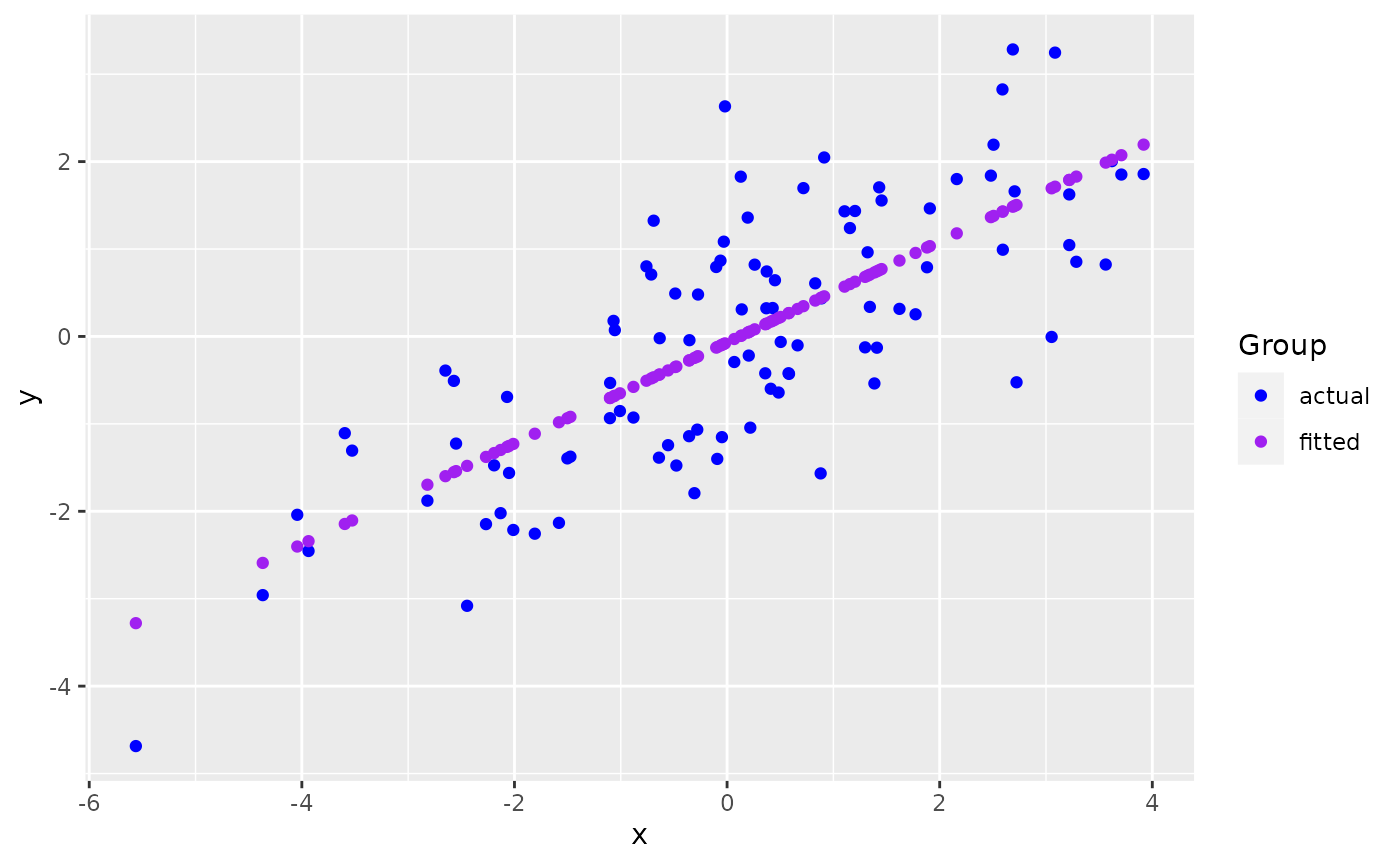
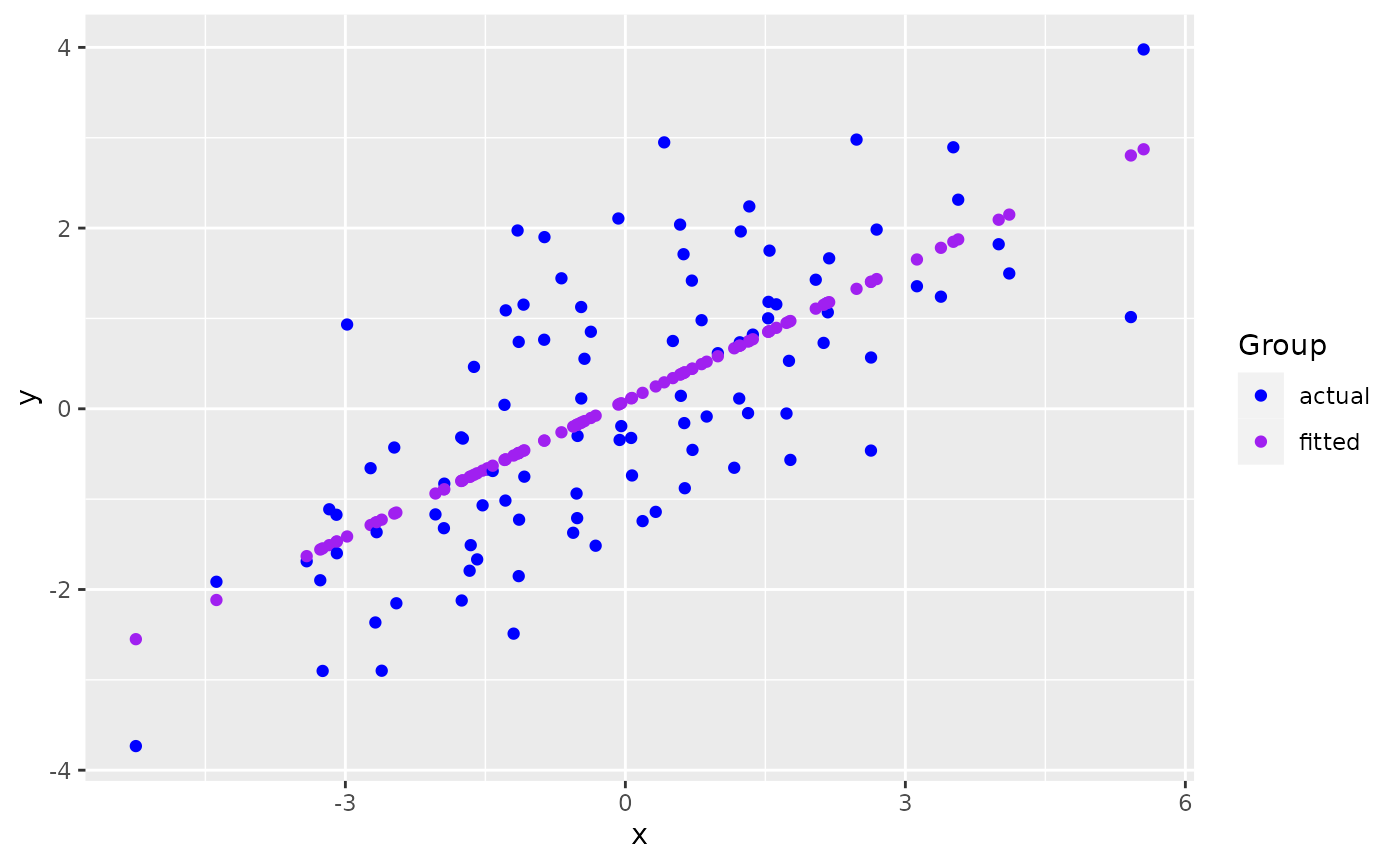
Built site for ggmatplot: 0.1.2@813e1a4

diff --git a/articles/ggmatplot.html b/articles/ggmatplot.html
@@ -103,7 +103,7 @@
 <span class="va">x</span> <span class="op">&lt;-</span> <span class="fu"><a href="https://rdrr.io/r/base/c.html" class="external-link">c</a></span><span class="op">(</span><span class="fu"><a href="https://rdrr.io/r/stats/Normal.html" class="external-link">rnorm</a></span><span class="op">(</span><span class="fl">100</span>, sd <span class="op">=</span> <span class="fl">2</span><span class="op">)</span><span class="op">)</span>
 
 <span class="fu"><a href="https://rdrr.io/r/utils/head.html" class="external-link">head</a></span><span class="op">(</span><span class="va">x</span><span class="op">)</span>
-<span class="co">#&gt; [1]  2.7228492 -1.0558424  0.2039888  3.0528608 -5.5614652  0.2597157</span>
+<span class="co">#&gt; [1]  0.5945913  1.5297321 -1.2851544  2.6923512 -1.1426879 -5.2448646</span>
 
 <span class="co"># matrix z</span>
 <span class="va">y</span> <span class="op">&lt;-</span> <span class="va">x</span> <span class="op">*</span> <span class="fl">0.5</span> <span class="op">+</span> <span class="fu"><a href="https://rdrr.io/r/stats/Normal.html" class="external-link">rnorm</a></span><span class="op">(</span><span class="fl">100</span>, sd <span class="op">=</span> <span class="fl">1</span><span class="op">)</span>
@@ -112,13 +112,13 @@
            fitted <span class="op">=</span> <span class="va">fit.y</span><span class="op">)</span>
 
 <span class="fu"><a href="https://rdrr.io/r/utils/head.html" class="external-link">head</a></span><span class="op">(</span><span class="va">z</span><span class="op">)</span>
-<span class="co">#&gt;         actual      fitted</span>
-<span class="co">#&gt; 1 -0.524462995  1.50384493</span>
-<span class="co">#&gt; 2  0.072256677 -0.67809717</span>
-<span class="co">#&gt; 3 -0.218724137  0.04937126</span>
-<span class="co">#&gt; 4 -0.005619838  1.69440461</span>
-<span class="co">#&gt; 5 -4.685801936 -3.27979345</span>
-<span class="co">#&gt; 6  0.821199742  0.08154978</span></code></pre></div>
+<span class="co">#&gt;       actual     fitted</span>
+<span class="co">#&gt; 1  0.1432223  0.3824783</span>
+<span class="co">#&gt; 2  1.0015603  0.8520668</span>
+<span class="co">#&gt; 3 -1.0158555 -0.5614512</span>
+<span class="co">#&gt; 4  1.9835266  1.4358854</span>
+<span class="co">#&gt; 5  0.7403608 -0.4899105</span>
+<span class="co">#&gt; 6 -3.7331330 -2.5498517</span></code></pre></div>
 <p><code>ggmatplot</code> plots vector <code>x</code> against each column of matrix <code>z</code> using the default <code>plot_type = "point"</code>. This will be represented on the resulting plot as two groups, identified using different shapes and colors.</p>
 <div class="sourceCode" id="cb2"><pre class="downlit sourceCode r">
 <code class="sourceCode R"><span class="kw"><a href="https://rdrr.io/r/base/library.html" class="external-link">library</a></span><span class="op">(</span><span class="va"><a href="https://github.com/xuan-liang/ggmatplot" class="external-link">ggmatplot</a></span><span class="op">)</span>
